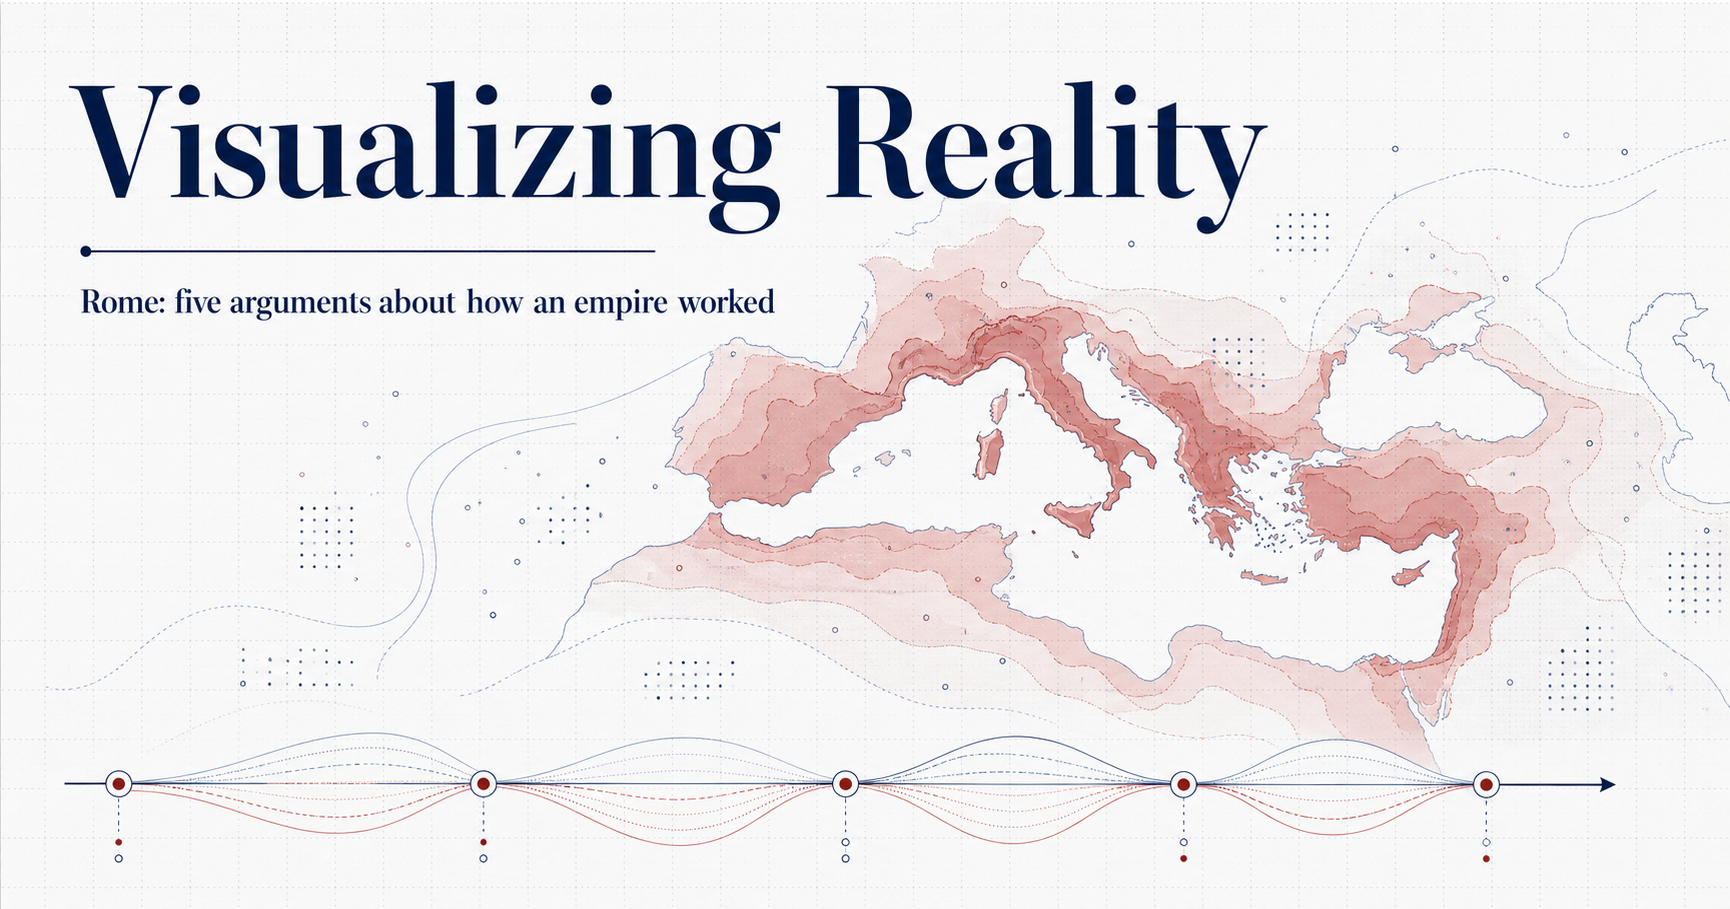
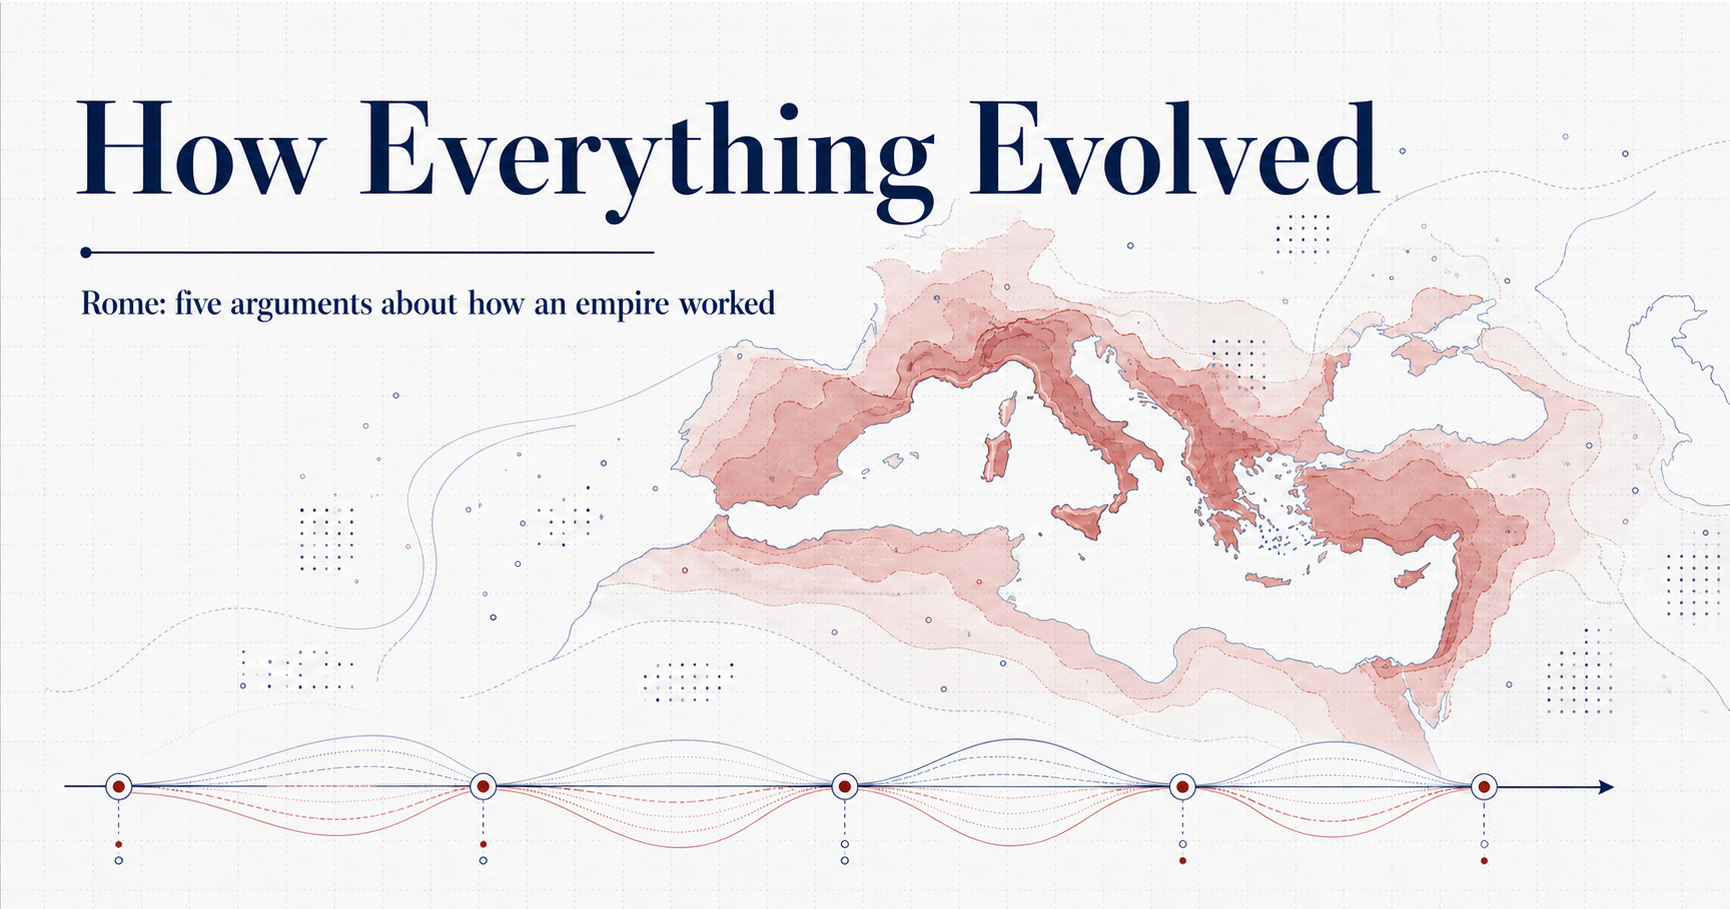
Rename site and add continuous improvement backlog

diff --git a/app/page.tsx b/app/page.tsx
@@ -5,7 +5,7 @@ export default function Home() {
   return (
     <main>
       <header className="site-header">
-        <a className="wordmark" href="#top"><span>Visualizing</span><b>Reality</b></a>
+        <a className="wordmark" href="#top"><span>How Everything</span><b>Evolved</b></a>
         <nav aria-label="Primary"><a href="#introduction">Introduction</a><a href="#key-insights">Key Insights</a></nav>
         <button className="search" type="button">Search</button>
       </header>
@@ -15,7 +15,7 @@ export default function Home() {
           <p className="topic-label">Visualizing history</p>
           <h1>Rome</h1>
           <p className="standfirst">A city on the Tiber became the largest empire Europe had yet seen—and remained a Mediterranean superstate for centuries.</p>
-          <p className="byline">By Visualizing Reality · First published August 2026</p>
+          <p className="byline">By How Everything Evolved · First published August 2026</p>
         </section>
 
         <div className="article-nav"><a href="#introduction">Introduction</a><a href="#key-insights">Key Insights</a></div>
@@ -45,7 +45,7 @@ export default function Home() {
           </section>
         </section>
 
-        <footer><b>Visualizing Reality</b><span>Evidence and scale about Rome.</span><a href="#top">Back to top ↑</a></footer>
+        <footer><b>How Everything Evolved</b><span>Evidence and scale about Rome.</span><a href="#top">Back to top ↑</a></footer>
       </article>
     </main>
   );

diff --git a/app/layout.tsx b/app/layout.tsx
@@ -7,16 +7,16 @@ const serif = Cormorant_Garamond({ variable: '--font-serif', subsets: ['latin'],
 
 export const metadata: Metadata = {
   metadataBase: new URL('https://visualizing-reality.rhyslindmark.chatgpt.site'),
-  title: 'Rome — Visualizing Reality',
+  title: 'Rome — How Everything Evolved',
   description: 'Five evidence-led arguments about how Rome expanded, worked, fell, and endured.',
   openGraph: {
-    title: 'Visualizing Reality',
+    title: 'How Everything Evolved',
     description: 'Rome: five arguments about how an empire worked.',
-    images: [{ url: '/og.png', width: 1730, height: 909, alt: 'Visualizing Reality — Rome: five arguments about how an empire worked' }],
+    images: [{ url: '/og.png', width: 1730, height: 909, alt: 'How Everything Evolved — Rome: five arguments about how an empire worked' }],
   },
   twitter: {
     card: 'summary_large_image',
-    title: 'Visualizing Reality',
+    title: 'How Everything Evolved',
     description: 'Rome: five arguments about how an empire worked.',
     images: ['/og.png'],
   },

diff --git a/BACKLOG.md b/BACKLOG.md
@@ -1,0 +1,66 @@
+# How Everything Evolved — Continuous Backlog
+
+This is the persistent queue for the autonomous site updater. Work one coherent,
+reviewable item at a time, from the highest-priority `ready` item downward.
+
+## Operating rules
+
+- Never fabricate a number, boundary, quotation, or citation.
+- Mark reconstructions and model outputs explicitly; preserve source keys in downloadable data.
+- Prefer primary sources, peer-reviewed scholarship, academic reference works, and high-quality specialist synthesis. ACOUP is a major interpretive source, not the sole authority.
+- Do not add a top-level claim until its evidence and visualization are strong enough to survive informed historical criticism.
+- Preserve the owner-only site access policy. Never change access, domains, credentials, billing, or repository visibility autonomously.
+- Before publishing: run lint and the production build, test the affected interaction in a browser, inspect the diff, and confirm downloadable data parses.
+- Commit and push the validated change to GitHub `Rhys-Lindmark/visualizing-reality`, push the same commit to the Sites source repository, and deploy that exact commit.
+- After each run, move finished work to `Completed`, record verification, and leave the next item in a clear state.
+- Stop and report a blocker when a product decision is genuinely ambiguous, evidence conflicts materially, or the change would be destructive or expand scope.
+
+## Ready
+
+### P0 — Audit the two live insights
+
+- Check every quantitative statement and CSV source key against the cited source.
+- Add a compact on-page source/method panel so a skeptical reader can trace the map and chart without opening the repository.
+- Fix any claim that is stronger than the evidence.
+
+### P0 — Make the Roman map historically inspectable
+
+- Add hover/click readouts for the active Roman and neighboring polity geometries.
+- Surface the source interval behind each annual frame, so readers can distinguish annual playback from dated boundary observations.
+- Check the eastern and western administrations at 395, 410, 439, and 476 against specialist maps and the underlying Seshat geometry.
+
+### P1 — Improve the military comparison model
+
+- Document the interpolation rule used for each rival 50-year series.
+- Ensure each campaign anchor has a human-readable citation and the line never implies continuous observations.
+- Add direct labels at line ends where this improves OWID-style readability.
+
+### P1 — Build Insight 03: how Rome paid for empire
+
+- Research taxation, tribute, customs, land tax, military pay, and grain flows across the Republic and Empire.
+- Create the source/data file before designing the chart.
+- Prefer an explanatory fiscal-flow visualization over an unsupported single-number time series.
+
+### P1 — Build Insight 04: why the western empire fell
+
+- Avoid a monocausal story. Compare fiscal capacity, army cost, civil war, territorial loss, and external pressure over time.
+- Separate the end of the western imperial court from the survival of the eastern Roman state.
+
+### P2 — Build Insight 05: labor, land, and slavery
+
+- Show what can and cannot be quantified about enslaved labor, tenancy, estates, and agricultural production.
+- Do not present empire-wide slave population estimates as settled facts.
+
+### P2 — Build Insight 06: what Rome left behind
+
+- Map or chart roads, language families, legal inheritance, cities, and administrative boundaries with clear causal caveats.
+
+## Blocked
+
+- None.
+
+## Completed
+
+- 2026-08-29 — Annual 500 BCE–476 CE Roman map with sourced persistent geometry, neighboring polities, event jumps, and corrected late-imperial states. Verified with lint, production build, browser stepping, and 293/395/410/439/476 data checks.
+- 2026-08-29 — Rome-versus-rivals manpower and manpower × iron chart with 50-year modeled rival series, separate campaign anchors, metric toggle, and downloadable CSVs. Verified with lint, production build, CSV parsing, and browser interaction.
+- 2026-08-29 — Project renamed from Visualizing Reality to How Everything Evolved; recurring autonomous improvement loop established.
